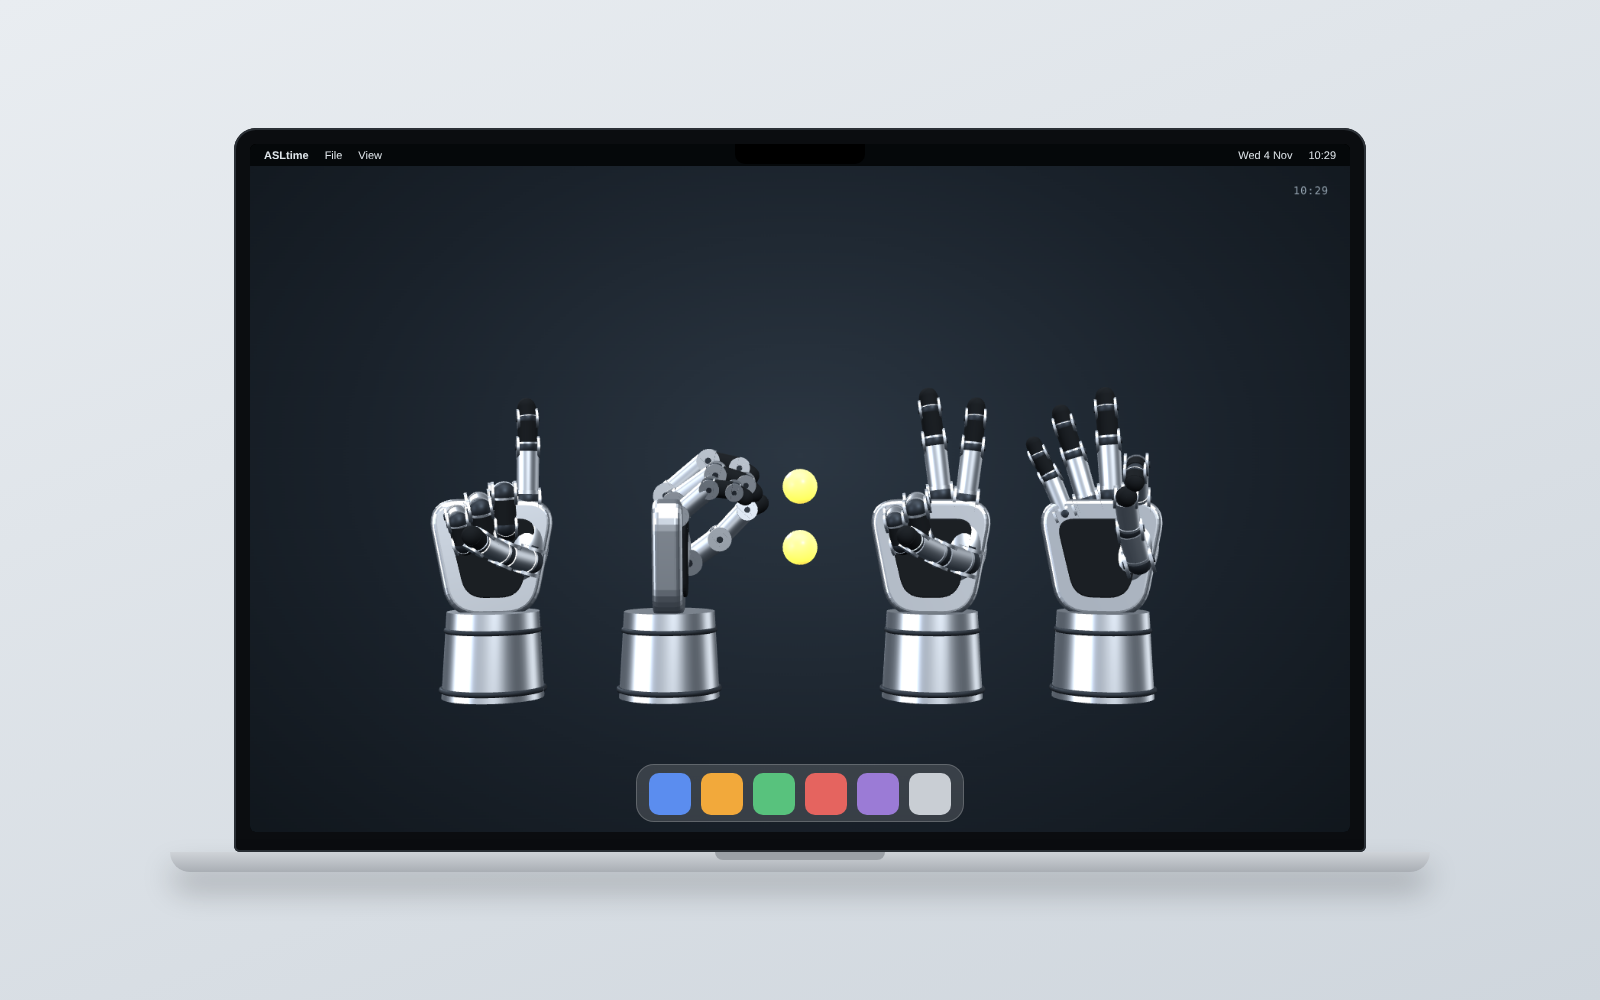
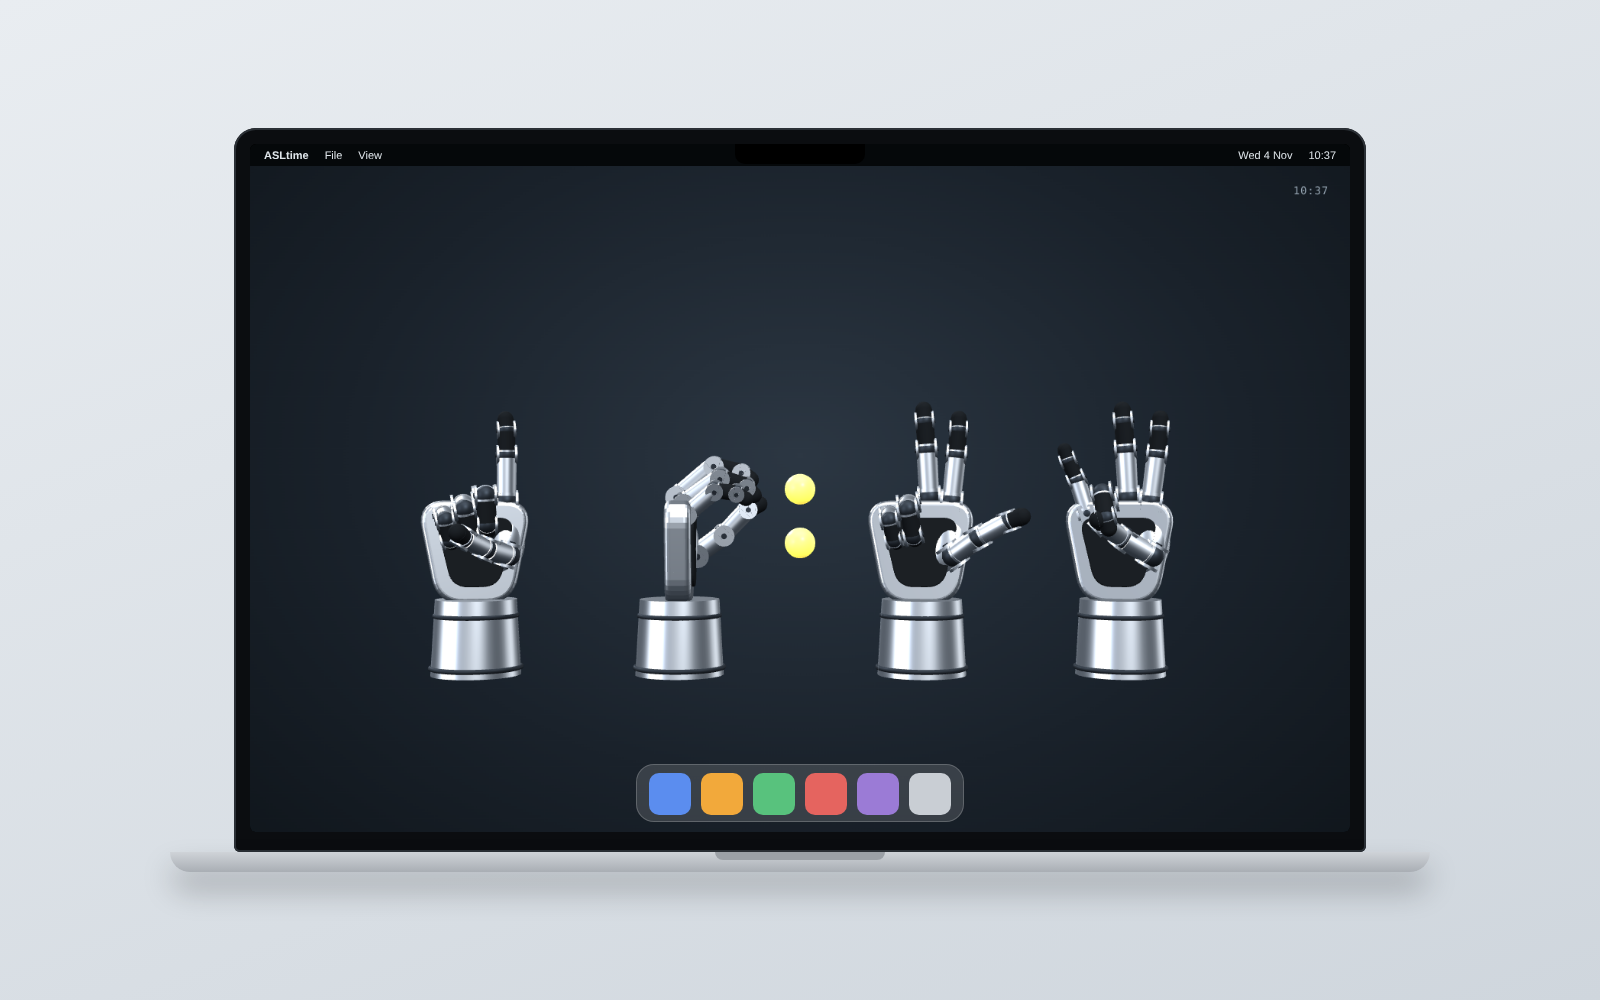
Widen spacing between hands so thumbs never overlap; refresh mockups

Changed region(s): [[0.375, 0.403, 0.75, 0.713], [0.25, 0.403, 0.3438, 0.713]]

diff --git a/index.html b/index.html
@@ -4442,7 +4442,7 @@
   var world = new THREE.Group();
   scene.add(world);
   world.scale.setScalar(0.82);
-  var XS = [-2.5, -1.1, 1.1, 2.5];
+  var XS = [-3.0, -1.15, 1.15, 3.0];
   var hands = [];
   var dots = [];
   var glbBuf = b64ToBuf(GLB_B64);
@@ -4483,7 +4483,7 @@
     camera.aspect = w / h;
     camera.updateProjectionMatrix();
     var t = Math.tan(THREE.MathUtils.degToRad(camera.fov) / 2);
-    var dist = Math.max(1.5 / t, 3.7 / (t * camera.aspect));
+    var dist = Math.max(1.5 / t, 4.2 / (t * camera.aspect));
     camDist = dist;
     camera.position.set(0, 0.62, dist);
     camera.lookAt(0, 0.62, 0);

diff --git a/README.md b/README.md
@@ -38,7 +38,7 @@ Open `index.html` in any modern browser.
 
 ## How it looks on a laptop
 
-ASLtime fills the whole screen, so it works well as a live wallpaper or a screensaver. These mockups show it on a MacBook and on a Windows laptop (with 10:29 on the clock).
+ASLtime fills the whole screen, so it works well as a live wallpaper or a screensaver. These mockups show it on a MacBook and on a Windows laptop (with 10:37 on the clock).
 
 **MacBook**
 
